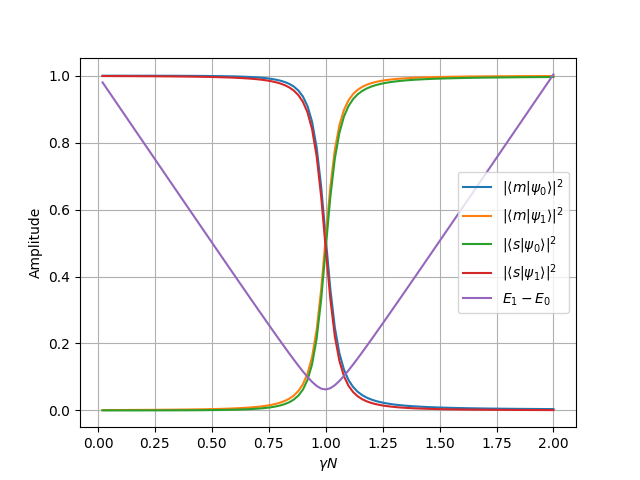
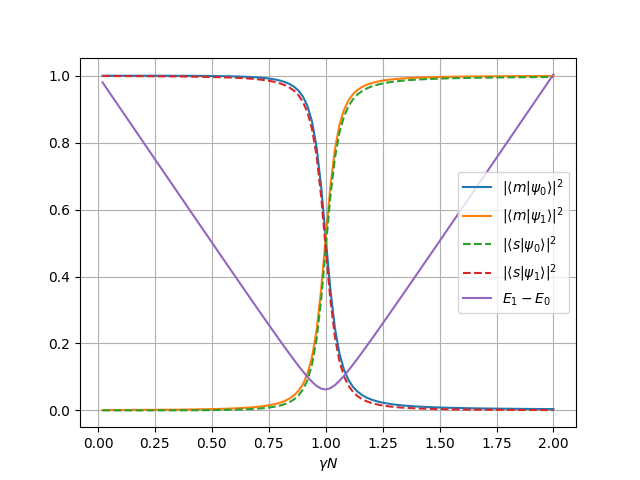
Added more graphs

diff --git a/main.py b/main.py
@@ -41,15 +41,16 @@ def energy_0_and_energy_1(eigenvalues):
 
 def amplitudes_plot(alpha, dimensions, gammasN, amps, e1_minus_e0):
     fig, ax = plt.subplots()
-    for amp in amps:
-        ax.plot(gammasN, amp)
+    linestyles = ['solid', 'solid', 'dashed', 'dashed']
+    for i, amp in enumerate(amps):
+        ax.plot(gammasN, amp, linestyle=linestyles[i])
     ax.plot(gammasN, e1_minus_e0)
     ax.legend(['$|\langle m|\psi_0 \\rangle |^2$', 
                 '$|\langle m|\psi_1 \\rangle |^2$', 
                 '$|\langle s|\psi_0 \\rangle |^2$', 
                 '$|\langle s|\psi_1 \\rangle|^2$',
                 '$E_1 - E_0$'])
-    ax.set(xlabel='$\gamma  N$', ylabel='Amplitude')
+    ax.set(xlabel='$\gamma  N$')
     ax.grid()    
     plt.savefig(f'plots/alpha={alpha}_dim={dimensions}.png')
     plt.show()
@@ -58,18 +59,19 @@ def amplitudes_plot(alpha, dimensions, gammasN, amps, e1_minus_e0):
 if __name__ == "__main__":
     dimensions = 1024
     mark = 5
-    gamma = 2/dimensions
-    alpha = 1
+    gamma = 450/dimensions
+    alpha = 1.5
     number_of_points = 100
     gammas = [gamma*(i/number_of_points) for i in range(1,(number_of_points+1))]
     m_psi_0s = []
     s_psi_0s = []
     m_psi_1s = []
     s_psi_1s = []
-    e1_minus_e0s = []
+    e1_minus_e0s = []        
+    m_ket = marked_state(n=dimensions, marked=mark)
+    s_ket = superposition_state(n=dimensions)    
     for point, gamma in enumerate(gammas):
-        m_ket = marked_state(n=dimensions, marked=mark)
-        s_ket = superposition_state(n=dimensions)            
+        
         H = -gamma*dimensions*np.outer(s_ket, s_ket) - np.outer(m_ket, m_ket) 
         if alpha: 
             H = hamiltonian_matrix(n=dimensions, gamma=gamma, alpha=alpha, marked=mark)
@@ -85,18 +87,4 @@ if __name__ == "__main__":
     gammasN = [gamma * dimensions for gamma in gammas]
     amplitudes_plot(alpha, dimensions, gammasN, 
                     [m_psi_0s, m_psi_1s, s_psi_0s, s_psi_1s], e1_minus_e0s)
-    '''
-    print(times)
-    m_ket = marked_state(n=dimensions, marked=mark)
-    s_ket = superposition_state(n=dimensions)
-    print(m_ket)
-    print(s_ket)
-    H = hamiltonian_matrix(n=dimensions, gamma=gamma, alpha=alpha, marked=mark)
-    U = unitary_matrix(H, time=time)
-    U_s_ket = np.matmul(U, s_ket)
-    amplitude = np.dot(m_ket, U_s_ket)
-    print(H)
-    print(U)
-    print(amplitude)
-    '''
     
